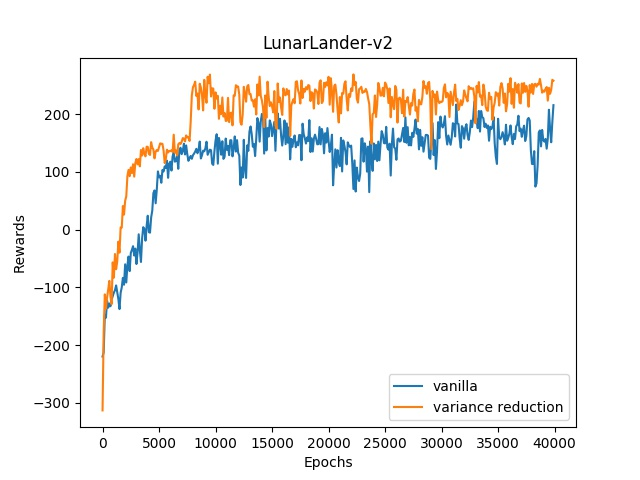
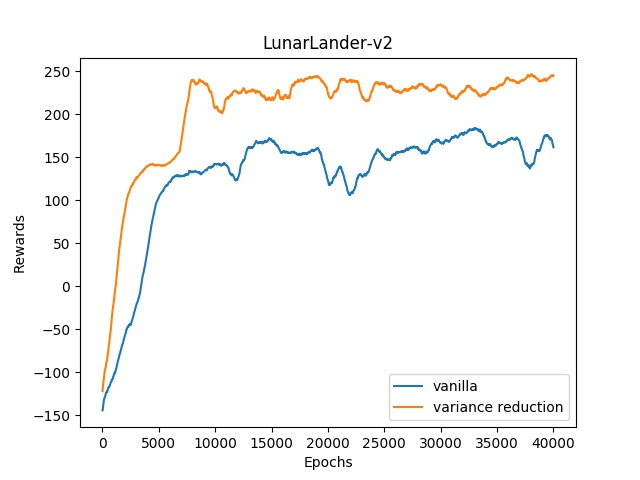
upd

diff --git a/p3_pg.py b/p3_pg.py
@@ -11,10 +11,17 @@ for name in ['pg.log', 'pg_vr.log']:
             epochs.append(epoch)
             rewards.append(reward)
    
+    a1, a2 = [], []
+    for _ in range(len(epochs) - 200):
+        a1.append((_ + 1) * 10)
+        a2.append(sum(rewards[_:_+100]) / 100)
+
     if name == 'pg.log':
-        plt.plot(epochs[:4000:10], rewards[:4000:10], label='vanilla')
+        #plt.plot(epochs[:4000:10], rewards[:4000:10], label='vanilla')
+        plt.plot(a1[:4000], a2[:4000], label='vanilla')
     else:
-        plt.plot(epochs[:4000:10], rewards[:4000:10], label='variance reduction')
+        #plt.plot(epochs[:4000:10], rewards[:4000:10], label='variance reduction')
+        plt.plot(a1[:4000], a2[:4000], label='variance reduction')
 plt.title('LunarLander-v2')
 plt.xlabel('Epochs')
 plt.ylabel('Rewards')
